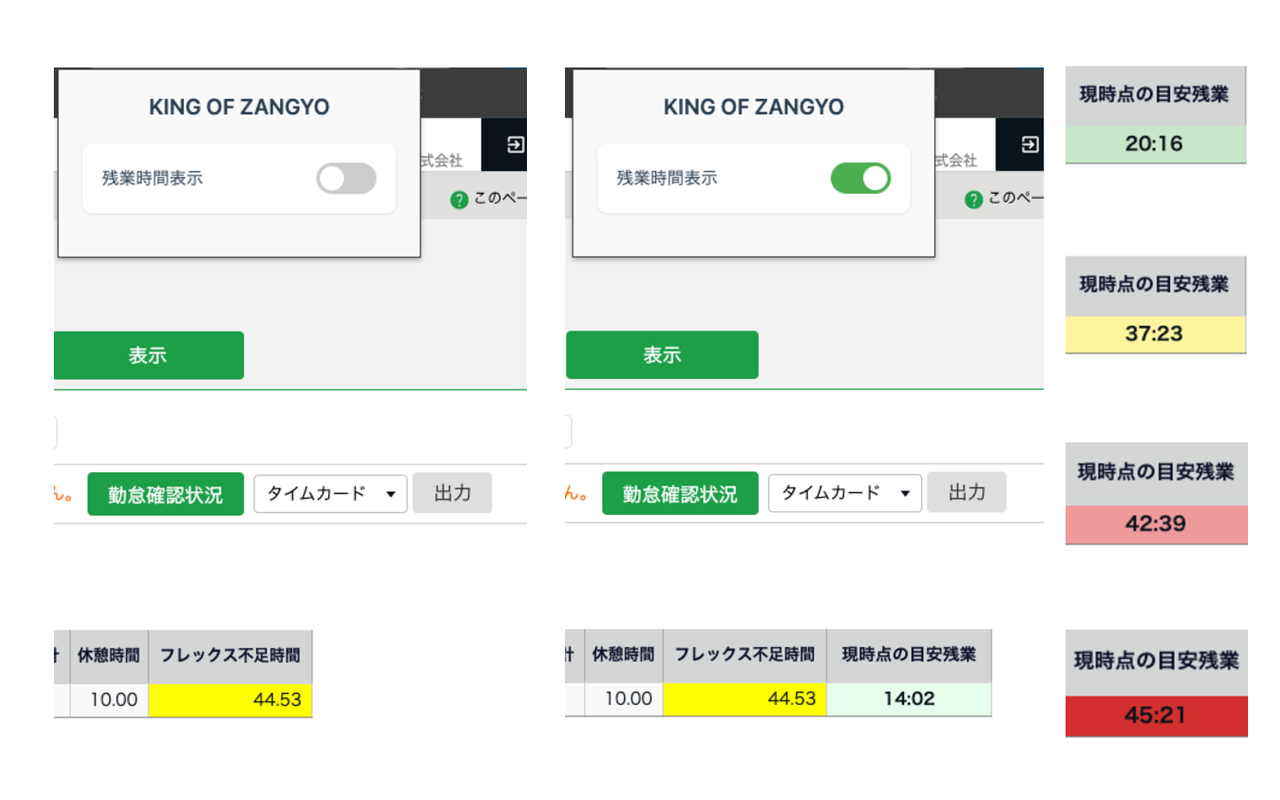
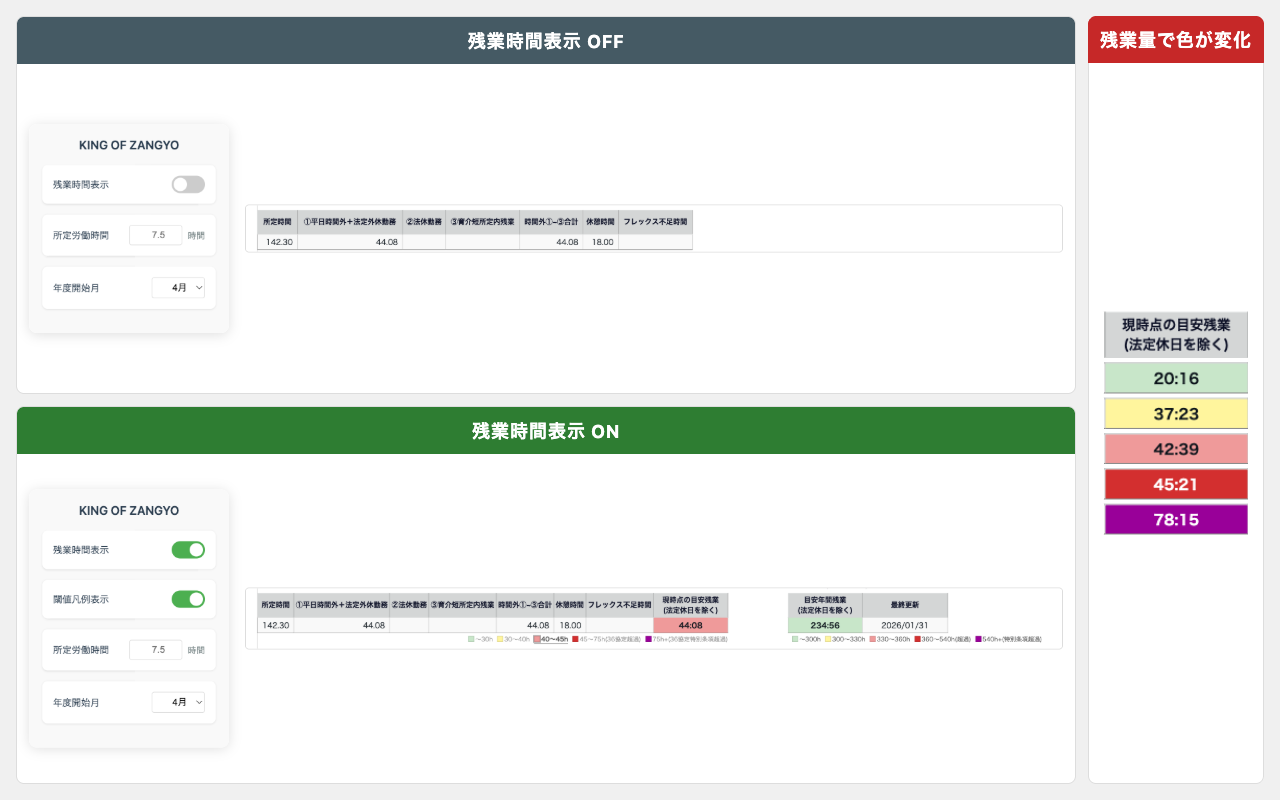
ストア画像と合成用HTMLをコミットし、Playwrightのログを無視する設定を足した

diff --git a/store-assets/screenshot-compose.html b/store-assets/screenshot-compose.html
@@ -1,0 +1,163 @@
+<!DOCTYPE html>
+<html lang="ja">
+<head>
+<meta charset="utf-8">
+<style>
+* { margin: 0; padding: 0; box-sizing: border-box; }
+body {
+  width: 1280px;
+  height: 800px;
+  background: #f0f0f0;
+  font-family: -apple-system, BlinkMacSystemFont, "Segoe UI", "Roboto", "Helvetica", "Arial", sans-serif;
+  overflow: hidden;
+  display: grid;
+  grid-template-columns: 1fr 176px;
+  grid-template-rows: 1fr 1fr;
+  gap: 12px;
+  padding: 16px;
+}
+
+/* 各バンド（OFF / ON）*/
+.band {
+  grid-column: 1;
+  background: #fff;
+  border-radius: 8px;
+  border: 1px solid #ddd;
+  display: flex;
+  flex-direction: column;
+  overflow: hidden;
+}
+
+/* バンドのラベルヘッダー */
+.band-header {
+  padding: 10px 0;
+  text-align: center;
+  font-weight: 700;
+  font-size: 18px;
+  letter-spacing: 1px;
+  flex-shrink: 0;
+}
+.band-header.off { background: #455a64; color: #fff; }
+.band-header.on { background: #2e7d32; color: #fff; }
+
+/* バンドの中身: ポップアップ(左) + テーブル(右) */
+.band-body {
+  flex: 1;
+  display: flex;
+  align-items: center;
+  padding: 12px;
+  gap: 16px;
+  min-height: 0;
+}
+
+/* ポップアップ: 固定幅で上下バンド統一 */
+.band-popup {
+  flex-shrink: 0;
+  width: 200px;
+  border-radius: 8px;
+  box-shadow: 0 2px 12px rgba(0,0,0,0.12);
+  overflow: hidden;
+}
+.band-popup img {
+  display: block;
+  width: 100%;
+  height: auto;
+}
+
+/* テーブル部分 */
+.band-table {
+  flex: 1;
+  display: flex;
+  flex-direction: column;
+  justify-content: center;
+  min-width: 0;
+}
+.band-table img {
+  width: 100%;
+  height: auto;
+  display: block;
+  border-radius: 4px;
+  border: 1px solid #ddd;
+}
+
+/* 右列: 色セル */
+.color-section {
+  grid-column: 2;
+  grid-row: 1 / 3;
+  display: flex;
+  flex-direction: column;
+}
+.color-header {
+  background: #c62828;
+  color: #fff;
+  text-align: center;
+  padding: 10px 0;
+  font-weight: 700;
+  font-size: 18px;
+  letter-spacing: 1px;
+  border-radius: 8px 8px 0 0;
+  flex-shrink: 0;
+}
+.color-body {
+  flex: 1;
+  background: #fff;
+  border: 1px solid #ddd;
+  border-top: none;
+  border-radius: 0 0 8px 8px;
+  display: flex;
+  flex-direction: column;
+  align-items: center;
+  justify-content: center;
+  gap: 4px;
+  padding: 8px 4px;
+}
+.color-body img {
+  display: block;
+  width: 144px;
+  height: auto;
+}
+</style>
+</head>
+<body>
+
+  <!-- Band 1: OFF -->
+  <div class="band">
+    <div class="band-header off">残業時間表示 OFF</div>
+    <div class="band-body">
+      <div class="band-popup">
+        <img src="tmp-parts/part-popup-off.png">
+      </div>
+      <div class="band-table">
+        <img src="full-before-wide.png">
+      </div>
+    </div>
+  </div>
+
+  <!-- Band 2: ON -->
+  <div class="band">
+    <div class="band-header on">残業時間表示 ON</div>
+    <div class="band-body">
+      <div class="band-popup">
+        <img src="tmp-parts/part-popup-on.png">
+      </div>
+      <div class="band-table">
+        <img src="full-after-wide.png">
+      </div>
+    </div>
+  </div>
+
+  <!-- Right: Color cells -->
+  <div class="color-section">
+    <div class="color-header">残業量で色が変化</div>
+    <div class="color-body">
+      <img src="tmp-parts/val-header.png">
+      <img src="tmp-parts/val-green.png">
+      <img src="tmp-parts/val-yellow.png">
+      <img src="tmp-parts/val-red.png">
+      <img src="tmp-parts/val-crimson.png">
+      <img src="tmp-parts/val-purple.png">
+    </div>
+  </div>
+
+</body>
+</html>

diff --git a/2026-10-23-annual-pace-bands.md b/2026-10-23-annual-pace-bands.md
@@ -49,7 +49,7 @@ Naokiの問い「それ以前のバージョンで年間残業時間を取得し
 
 ## 残っていること
 
-- 次のバージョンの検討（別のセッション）。年間残業時間を一度も取得していない人への案内、凡例の説明、アップデート完了ページを開くかどうか。上の「公開後に分かったこと」のとおり、アップデート直後に色が変わることもここで扱う。ストアのスクリーンショットもここで撮り直す。いまの画像（未コミットの `store-assets/screenshot.png`、ルート直下の `compose-final-v21.png` と同じもの）はv2.4.7の画面で、年間の凡例が固定の300h・330hのまま。撮り直しは `compose-final.html` で合成できるが、材料の切り抜き画像は2026-10-26に消したので撮り直しが要る
+- 次のバージョンの検討（別のセッション）。年間残業時間を一度も取得していない人への案内、凡例の説明、アップデート完了ページを開くかどうか。上の「公開後に分かったこと」のとおり、アップデート直後に色が変わることもここで扱う。ストアのスクリーンショットもここで撮り直す。いまの画像 `store-assets/screenshot.png` はv2.4.7の画面で、年間の凡例が固定の300h・330hのまま。合成に使ったHTMLは `store-assets/screenshot-compose.html` に置いた（元はルート直下の `compose-final.html`）。材料の切り抜き画像は2026-10-26に消したので、撮り直してから `src` を書き換える
 - 直さずに残した軽微な指摘。完了ダイアログの「緑↔黄」の字下げは `white-space: pre-line` でつぶれる。未来の年度を選ぶと、確認ダイアログのOKのあとに「未来のため取得できません」が出る
 
 ## ハマりどころ
